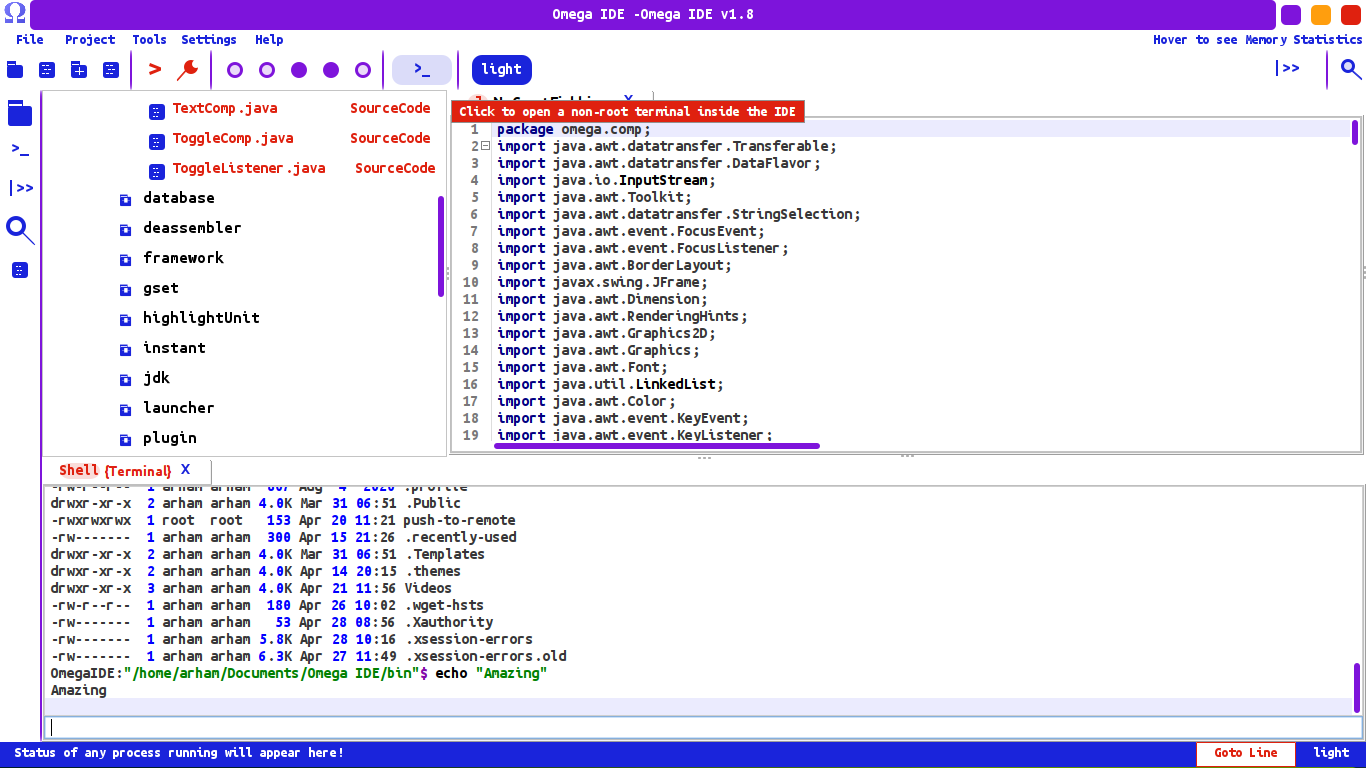
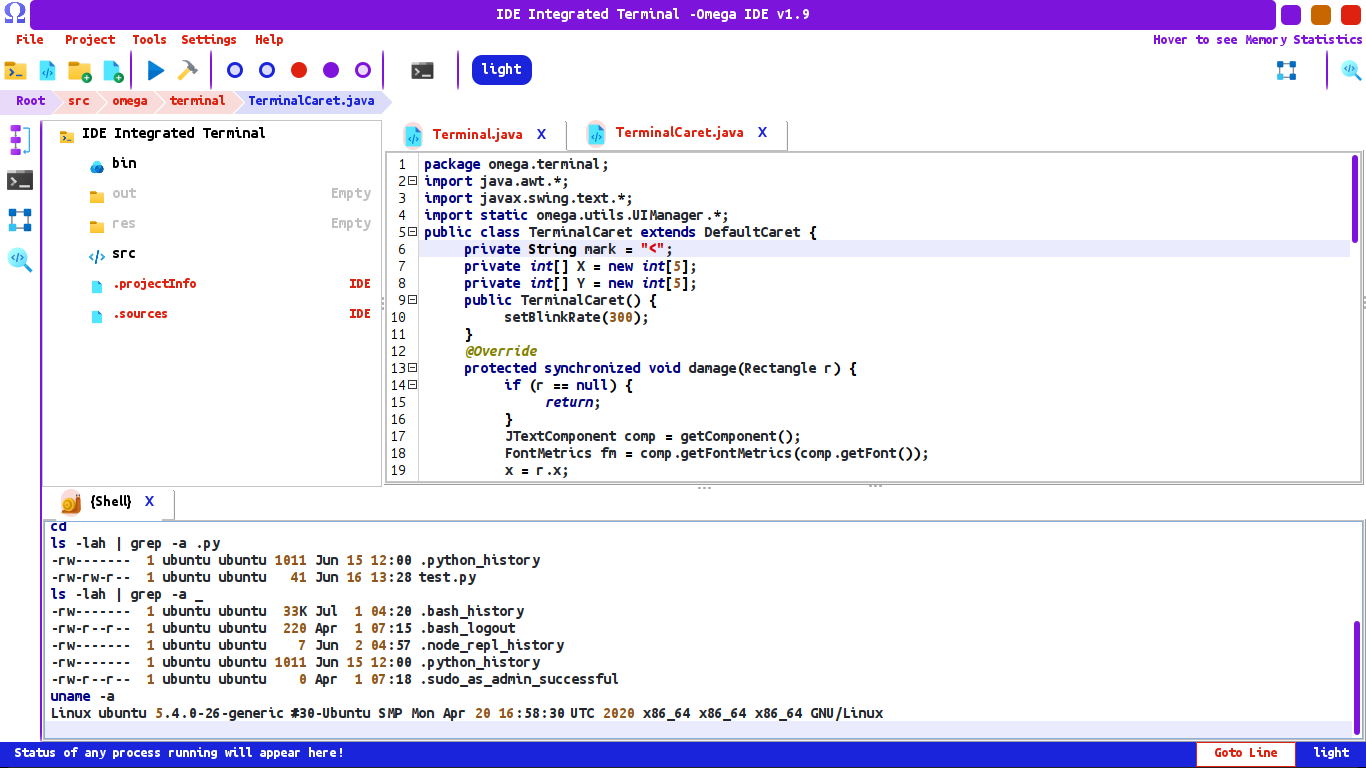
Preparing for next release

diff --git a/README.md b/README.md
@@ -1,20 +1,17 @@
 # **Omega IDE**
 
-Omega IDE Current Beta v1.9
-
-![](/images/the-performant.png)
-
-Omega IDE Latest Stable 
+**Omega IDE v1.9 - Latest Stable**
 
 ![](/images/light.png)
 
 ![](/images/dark.png)
 
 
-⏩ Omega IDE is a blazing fast Java IDE promising performance even on minimal resource environment 
-with a least available RAM of 210 MB. 
+Omega IDE is a **blazing fast Java IDE promising performance** even on minimal resource environment.
 
 Here is a proof, 
+
+Omega IDE Version - 1.8
 
 OS - Deepin Linux
 
@@ -30,19 +27,21 @@ CPU - Intel Pentium Duo 2 cores 2 logical processors 2 x 2.20 GHz
 
 ![](/images/p2.png)
 
+Omega IDE can also be used as a **Instant IDE for any** other **programming language** as well.
 
-Omega IDE when editing its own source code uses at most 150 MB of RAM (only when used extensively) 
+Omega IDE when idle uses at most 119 MB of Available RAM.
+
+Omega IDE when editing its own source code uses at most 210 MB of RAM (only when used extensively) 
 so you can imagine how good it is for small projects 🤩.
 
 Omega IDE has a very small download size.
 
 It has a beautiful text editor with code folding (thanks to rsyntaxtextarea).
 
-Omega IDE can also be used as a **Instant IDE for any** other **programming language** as well.
 
 It tries to reassemble a material look so that it is easy to adapt the customized UI.
 
-It has a elegant UI filled with custom components(have a look at sources at src/omega/comp).
+**It has a elegant UI filled with custom components(have a look at sources at src/omega/comp).**
 
 **The component library of Omega IDE is independent of any other IDE component**
 
@@ -50,7 +49,7 @@ It has a elegant UI filled with custom components(have a look at sources at src/
 
 Want to have a look before giving a try?
 
-See whats new in the latest release on the official channel!
+See a dry of the latest release on the official channel!
 
 [![](/images/youtube-icon.png)](https://www.youtube.com/channel/UCpuQLV8MfuHaWHYSq-PRFXg)
 
@@ -60,15 +59,14 @@ See whats new in the latest release on the official channel!
 
 Dependency **JDK 16** or above
 
-I recommend using the latest available pre-release instead of using stable-versions because 
-the pre-release versions are debugged daily while that of stable-releases contain 
-more bugs than a pre-release versions because of lack of testers. 
-The Pre-releases are well tested daily, they are like rolling versions.
+If you want to get early access to optimizations and new features you can freely use latest beta available
+from ![here](https://raw.githubusercontent.com/omegaui/omegaide/main/out/Omega%20IDE-dailybuild.jar).
 
-If you get some trouble in a stable version then using the latest pre-release version is the fix.
-Just Head over to Releases Pages to see a pre-release version.
+**Available installation formats**
+**.jar** Portable Java Archive
+**.exe** Windows Executable
+**.deb** Debian Setup
 
-Just download the **Omega IDE.jar** file (or .deb installer if you are on debian) from the release section and run.
 
 # Please Read -- For Java Projects Only
 
@@ -81,7 +79,6 @@ All the algorithms of Omega IDE rely on Java Conventions.
 As a result the IDE will not work as intended if you miss so.
 
 You cannot create a class without a package, this means that using default packages
-
 is prohibited in Omega IDE.
 
 Also when creating a source file you have specify the full-qualified name.
@@ -101,98 +98,31 @@ There are separate project wizard for Java and Non-Java Projects.
 
 ![](/images/launcher.png)
 
+
 ## Java
-
-From there click **New Project** with tag *Project*, now a project wizard will appear.
-
-You should see a look like this.
 
 ![](/images/java-wizard.png)
 
-Now Enter the project name.
-
-The colon near the top most field is a component containing the path of workspace directory.
-
-You can change it whenever you want.
-
-
-Now below the project name field you will see a non-editable field
-
-with text "Choose Java Development Kit", just right next to this field you will see a colon component again.
-
-Click that component and it will ask you to specify a directory containing the JVMs
-
-so that the IDE can identify which JDKs are available.
+The Project has a field to set the JDK Root, the place where all the JDKs are located.
 
 On Linux, the path is usually **/usr/lib/jvm**
 
 On Windows, the path is usually like **C:\Program Files\Java** or **C:\Program Files(x86)\Java** based on the architecture.
 
-Just type in the right path in the file chooser dialog or navigate to the directory if you dont know!
+Just type in the right path or navigate in the file chooser dialog or navigate to the directory if you dont know!
 
-After this the wizard will ask to select the available JDKs, select One.
+After you can choose from the available JDKs to be used.
 
-
-Now you will a text area below labeled as **Source Files**.
-
-It serves a major role when you want you have multiple source files to create or just want to use it.
-
-What it actually does is that it creates the source files specified as soon as the project wizard prepares the project.
-
-write there,
-
-```
-main.Tutorial -class
-
-main.Demo -interface
-```
-
-Now leaving the dependency part.
-
-Click create.
-
-Now you can see that your newly created project is ready for editing.
-
-The IDE has created four default directories(listed on the FileTree on left),
-
-and it has also created the two source files Tutorial(class) and Demo(interface),
-
-and they are ready for editing right in the main tab panel.
 
 ## Any Programming Language
 
-If already editing a project, click **File** Menu from the Top.
-
-Now Click the **New Project (non-project)**.
-
-If still in the launcher, click **New Project** with tag *Non-Java*.
-
-A simple Project Wizard will appear,
-
-asking you to specify the Project Name and to select workspace if needed.
-
 ![](/images/non-java-wizard.png)
 
-But Here, this project wizard works different.
+Just Specify your project name and setup things in the IDE itself.
 
-You see a text area below the project name field.
-
-That text area is demanding directory names separated by a new line character.
-
-For example: 
-
-Specify the project name as Demo Python Project
-
-In the text area write
-
-```
-src
-docs
-lib
-```
-On Clicking **Create**, you will see your project ready and opened in the IDE.
 
 # Setting Up a Project
+
 
 ## Java
 
@@ -243,6 +173,29 @@ Right Clicking the Run Button launches the Project without Build.
 
 Well, I recommend using Omega IDE for editing its own sources for a smoother experience.
 
+From Omega IDE v1.9 and onwards,
+
+Omega IDE uses portable project infomation technique (.projectInfo) which means you need not to setup your project classpath whenever you change your working computer if your dependencies are inside the project folder (say all libraries are inside **lib** and all resources are inside **res**).
+
+Looks like this
+
+```
+>JDK Path
+-/usr/lib/jvm/jdk-16
+>Main Class
+-omega.IDE
+>Project Classpath : Required Jars
+-project-root$/lib/flatlaf-0.46.jar
+>Project Classpath : Required Resource Roots
+-project-root$/res
+
+```
+
+Omega IDE will itself recognize and setup the project classpath automatically.
+
+If you prefer using terminal,
+the project classpath is:
+
 The **lib** folder contains the class-path dependenies.
 
 The **res** is the resource-root.
@@ -258,8 +211,6 @@ Omega IDE is not yet totally evolved which means it has no support for any versi
 ![](/images/g3.png)
 ![](/images/g4.png)
 ![](/images/g5.png)
-![](/images/g6.png)
-![](/images/g7.png)
 
 
 # Hope You Like It
